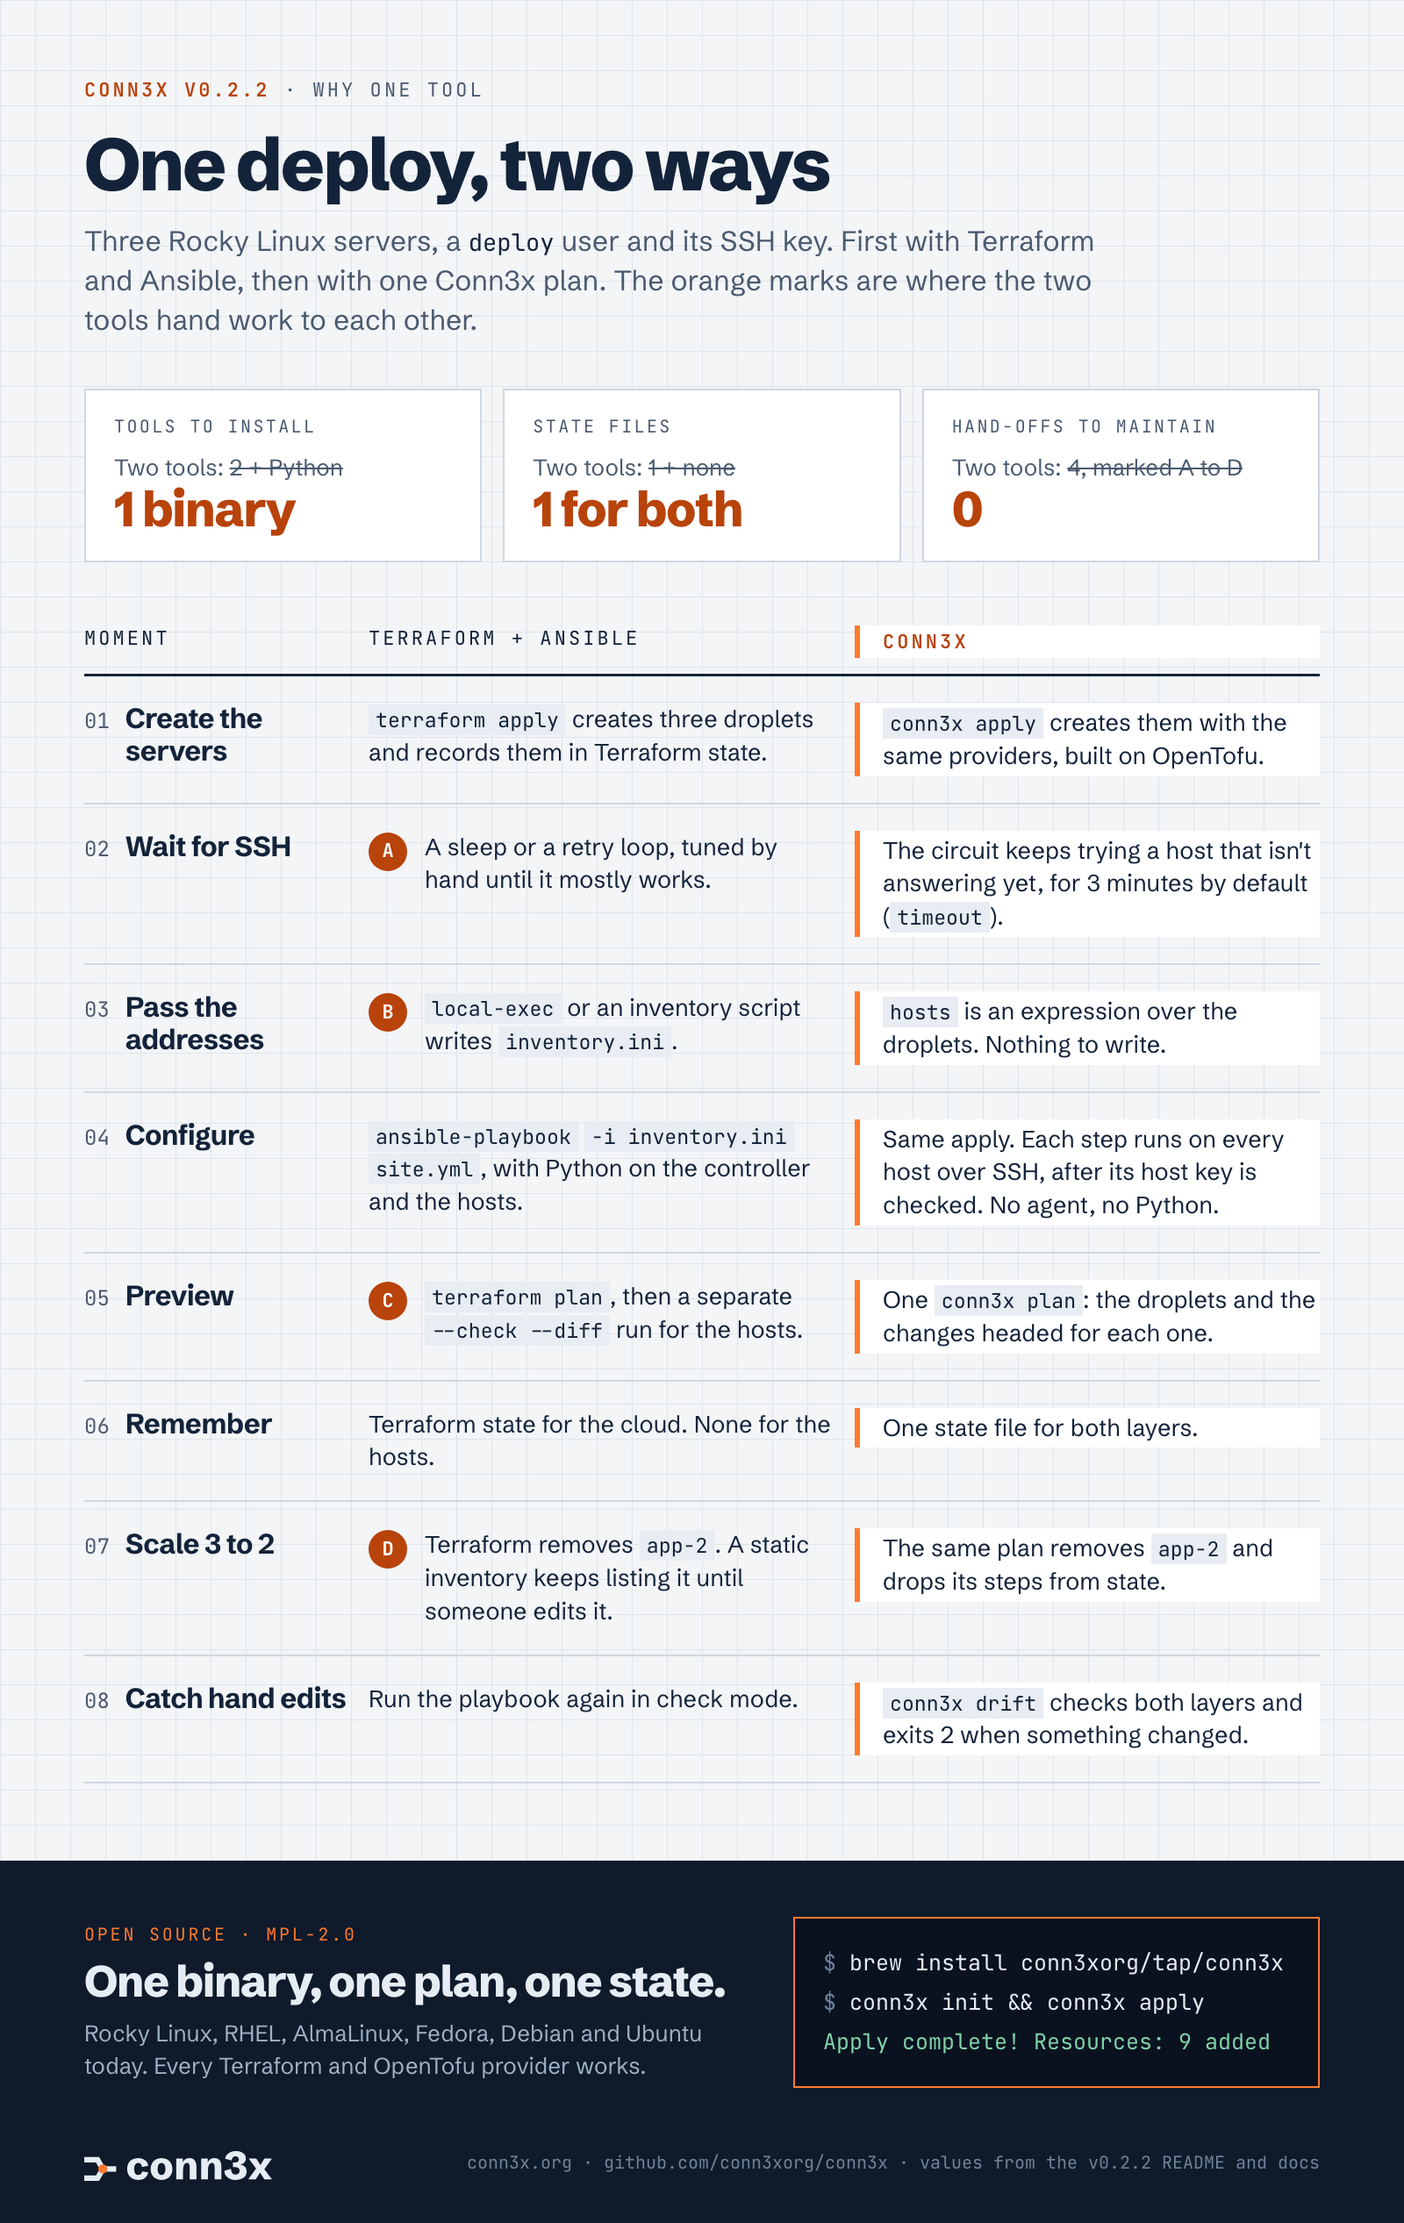
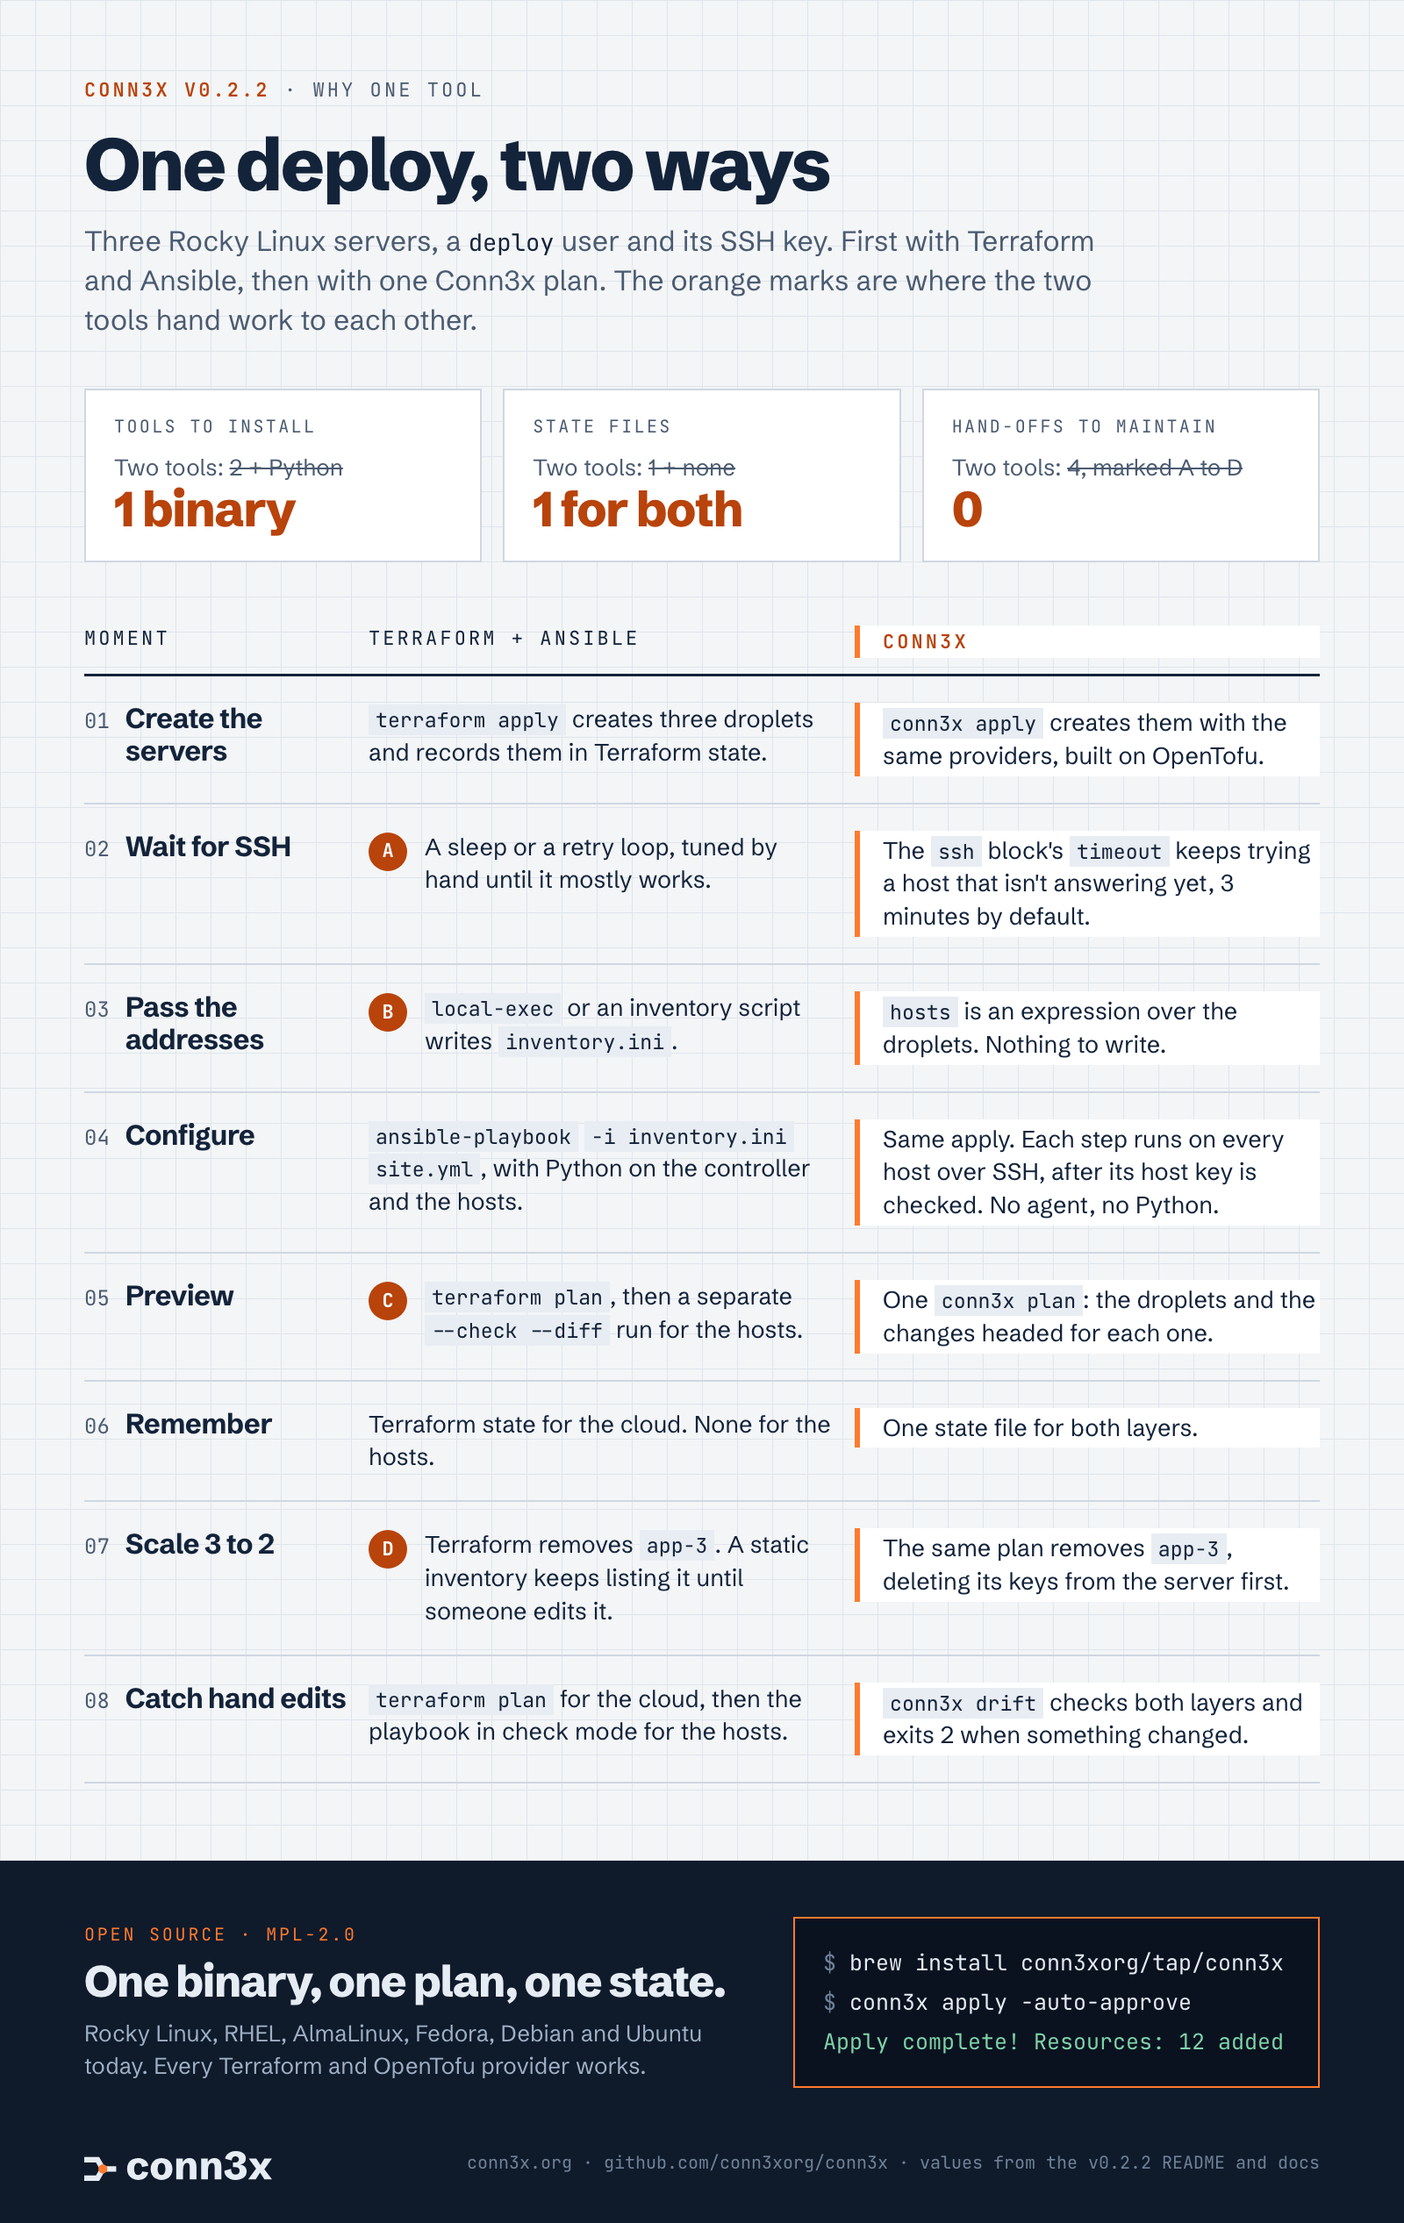
fix: make the why-Conn3x example run as shown and tighten its claims
The example now pins each server's host key, so its first apply checks
them, and it validates and plans with v0.2.2. The post no longer reuses
the v0.1 post's wording, says what scale-down does to keys and accounts,
and credits the ssh block with timeout. Clips keep native controls when
JavaScript is off.

diff --git a/scripts/post-graphics/why-conn3x/infographic.html b/scripts/post-graphics/why-conn3x/infographic.html
@@ -73,7 +73,7 @@
   <div class="row">
     <div class="moment"><span class="n">02</span><h3>Wait for SSH</h3></div>
     <div class="cell two hand" data-mark="A">A sleep or a retry loop, tuned by hand until it mostly works.</div>
-    <div class="cell one">The circuit keeps trying a host that isn't answering yet, for 3 minutes by default (<code>timeout</code>).</div>
+    <div class="cell one">The <code>ssh</code> block's <code>timeout</code> keeps trying a host that isn't answering yet, 3 minutes by default.</div>
   </div>
   <div class="row">
     <div class="moment"><span class="n">03</span><h3>Pass the addresses</h3></div>
@@ -97,12 +97,12 @@
   </div>
   <div class="row">
     <div class="moment"><span class="n">07</span><h3>Scale 3 to 2</h3></div>
-    <div class="cell two hand" data-mark="D">Terraform removes <code>app-2</code>. A static inventory keeps listing it until someone edits it.</div>
-    <div class="cell one">The same plan removes <code>app-2</code> and drops its steps from state.</div>
+    <div class="cell two hand" data-mark="D">Terraform removes <code>app-3</code>. A static inventory keeps listing it until someone edits it.</div>
+    <div class="cell one">The same plan removes <code>app-3</code>, deleting its keys from the server first.</div>
   </div>
   <div class="row">
     <div class="moment"><span class="n">08</span><h3>Catch hand edits</h3></div>
-    <div class="cell two">Run the playbook again in check mode.</div>
+    <div class="cell two"><code>terraform plan</code> for the cloud, then the playbook in check mode for the hosts.</div>
     <div class="cell one"><code>conn3x drift</code> checks both layers and exits 2 when something changed.</div>
   </div>
 </div>
@@ -115,8 +115,8 @@
   </div>
   <div class="term">
     <div><span class="p">$</span> brew install conn3xorg/tap/conn3x</div>
-    <div><span class="p">$</span> conn3x init &amp;&amp; conn3x apply</div>
-    <div class="ok">Apply complete! Resources: 9 added</div>
+    <div><span class="p">$</span> conn3x apply -auto-approve</div>
+    <div class="ok">Apply complete! Resources: 12 added</div>
   </div>
 </div>
 <div class="bottom">

diff --git a/apps/site/tests/blog.spec.ts b/apps/site/tests/blog.spec.ts
@@ -48,3 +48,18 @@ test("a clip can be paused", async ({ page }) => {
   expect(await video.evaluate((v: HTMLVideoElement) => v.paused)).toBe(true);
   await expect(toggle).toHaveText("Play");
 });
+
+test.describe("without JavaScript", () => {
+  test.use({ javaScriptEnabled: false });
+
+  test("a clip can still be played", async ({ page }) => {
+    await page.goto(POST);
+    await expect(page.locator("[data-clip] video").first()).toHaveAttribute("controls", "");
+  });
+});
+
+test("the clip's button sits outside its caption", async ({ page }) => {
+  await page.goto(POST);
+  await expect(page.locator("figcaption [data-clip-toggle]")).toHaveCount(0);
+  expect(await page.locator("[data-clip] video").first().evaluate((v: HTMLVideoElement) => v.controls)).toBe(false);
+});

diff --git a/scripts/post-graphics/why-conn3x/x-video/index.html b/scripts/post-graphics/why-conn3x/x-video/index.html
@@ -85,11 +85,13 @@
   count = 3
   name  = <span class="s">"app-${count.index}"</span>
   image = <span class="s">"rockylinux-10-x64"</span>
+  size  = <span class="s">"s-1vcpu-1gb"</span>
 }
 
 <span class="k">circuit</span> <span class="s">"app"</span> {
   hosts = { for d in digitalocean_droplet.app :
             d.name =&gt; d.ipv4_address }
+  <span class="c"># abridged: pin each host key, see the docs</span>
   ssh { user = <span class="s">"root"</span> }
 
   <span class="k">step</span> <span class="s">"deploy_user"</span> {

diff --git a/apps/site/src/content/blog/why-conn3x.md b/apps/site/src/content/blog/why-conn3x.md
@@ -1,7 +1,7 @@
 ---
 title: "Why Conn3x is one tool"
 description: "Creating a server and setting it up are one job. Conn3x does it with one binary, one plan and one state. Here's why that matters."
-date: 2026-10-26
+date: 2026-10-25
 author: James Conway
 image: /media/blog/why-conn3x/card.png
 imageAlt: "Left: Terraform and Ansible joined by glue scripts, an inventory file and two states. Right: one Conn3x plan and one state."
@@ -13,7 +13,7 @@ The trouble lives between them.
 
 Somewhere there's a script that copies addresses from one tool into a file the other one reads. There's a `sleep 60` that somebody added because the playbook kept knocking before SSH was listening. There are two records of what's out there, and on a bad day they disagree. None of that is anyone's fault. It's what happens when one job gets split across two tools.
 
-Our position is simple. We'll take one tool over two, every time, as long as it gets the job right every time. Conn3x is that tool.
+Our position is simple. We'll take one tool over two, every time, as long as it gets the job right every time. That's the tool we're building with Conn3x.
 
 ## Where the hand-off hurts
 
@@ -27,28 +27,52 @@ If you've wired these two together, you've met most of these.
 
 **The scale-down.** Shrink a pool from three servers to two and Terraform removes a machine. Whatever else knew about it, an inventory file or a group in a playbook, keeps pointing at an address that's gone until somebody notices.
 
-## One plan
+## Servers and setup in one file
 
 Conn3x is built on OpenTofu, so your providers, modules and state work as they always have. What it adds is the circuit: a playbook, written in HCL, that lives in the same configuration as the servers it sets up.
 
+Here's a pool of three Rocky Linux servers, each with a `deploy` account and its key. The pool is a set of names, and everything else follows from it.
+
 ```hcl
+locals {
+  servers = toset(["app-1", "app-2", "app-3"])
+}
+
+# Each server's SSH host key, made here and installed by cloud-init,
+# so Conn3x can check it on the very first connection.
+resource "tls_private_key" "host" {
+  for_each  = local.servers
+  algorithm = "ED25519"
+}
+
 resource "digitalocean_droplet" "app" {
-  count    = 3
-  name     = "app-${count.index}"
+  for_each = local.servers
+  name     = each.key
   image    = "rockylinux-10-x64"
   region   = "nyc3"
   size     = "s-1vcpu-1gb"
   ssh_keys = [var.ssh_key_id]
+
+  user_data = "#cloud-config\n${yamlencode({
+    ssh_deletekeys = true
+    ssh_keys = {
+      ed25519_private = tls_private_key.host[each.key].private_key_openssh
+      ed25519_public  = tls_private_key.host[each.key].public_key_openssh
+    }
+  })}"
 }
 
 circuit "app" {
-  hosts = { for d in digitalocean_droplet.app : d.name => d.ipv4_address }
+  hosts = {
+    for name, d in digitalocean_droplet.app : name => {
+      address  = d.ipv4_address
+      host_key = tls_private_key.host[name].public_key_openssh
+    }
+  }
 
   ssh {
     user             = "root"
     private_key_file = "~/.ssh/id_ed25519"
-    # Conn3x checks every host key. The provisioning guide shows how
-    # to pin the keys of servers that don't exist yet.
   }
 
   step "deploy_user" {
@@ -61,32 +85,33 @@ circuit "app" {
   step "deploy_key" {
     authorized_key {
       user = "deploy"
-      key  = file("~/.ssh/deploy.pub")
+      key  = file("${path.module}/deploy.pub")
     }
   }
 }
 ```
 
-`conn3x plan` shows three droplets about to be created and, under them, the account and the key headed for each one. One `apply` creates the machines, keeps trying each one until SSH answers, checks its host key, and sets it up. One state file holds all of it.
+Read it top to bottom and the hand-offs are gone. The addresses reach the circuit as an expression, so there's no inventory file. Each server's host key is made in the same configuration, so even the first SSH connection is checked, never trusted. And the `ssh` block's `timeout`, three minutes unless you change it, covers a server that's still booting.
 
-Look at what's missing. There's no inventory, because `hosts` is an expression. There's no wait loop, because the circuit's `timeout` covers a server that's still booting. And there's no second run to forget, because there's only one.
+`conn3x plan` lists all twelve changes together: the host keys, the droplets, and the account and key headed for each server. `conn3x apply` works through them in dependency order and records the lot in a single state file.
 
-Change `count` to 2 and the same plan removes `app-2` and drops its steps from state along with it. Nothing is left pointing at an address that's gone.
+Now take `app-3` out of the set. The next plan destroys that droplet, and first it deletes the deploy key from the server, because keys default to `on_remove = "delete"`. The account is forgotten rather than removed, which is the default for most steps. Either way, nothing is left pointing at a server that's gone.
 
 <figure class="clip" data-clip>
-  <video src="/media/blog/why-conn3x/apply.mp4" poster="/media/blog/why-conn3x/apply.webp" width="1280" height="720" muted loop playsinline preload="metadata" aria-label="A terminal running conn3x apply: one plan creates a host and configures it, then a second plan reports no changes."></video>
-  <figcaption>One apply, start to finish, recorded against a local test host. The second plan has nothing to do. <button type="button" data-clip-toggle hidden>Pause</button></figcaption>
+  <video src="/media/blog/why-conn3x/apply.mp4" poster="/media/blog/why-conn3x/apply.webp" width="1280" height="720" controls muted loop playsinline preload="metadata" aria-label="A terminal running conn3x apply against two local test hosts: it adds a deploy user and key to each, then a second plan reports no changes."></video>
+  <figcaption>The same two steps applied for real to two local test containers. The second plan has nothing to do.</figcaption>
+  <button type="button" data-clip-toggle hidden>Pause</button>
 </figure>
 
 ## What one tool changes
 
 It's easier, and the reasons are boring in the best way. There's one binary to install, one language to read and one command to run. A new teammate learns HCL and a short list of modules, and they can follow the whole path from API call to running service.
 
-It's also better, because one tool can see the whole picture. A plan is a diff against what's on the servers right now, line by line for files, next to the cloud changes that cause it. `conn3x drift` checks both layers and exits 2 when something changed by hand, so a scheduled job hears about a hand edit the morning after, not the next time someone applies. And there's nothing to install on the servers: no agent and no Python. Conn3x connects over SSH and runs plain shell commands, as root or through sudo.
+It's also better, because one tool can see the whole picture. A plan is a diff against what's on the servers right now, line by line for files, next to the cloud changes that cause it. `conn3x drift` checks both layers and exits 2 when something changed by hand, so a scheduled job hears about a hand edit the morning after, not the next time someone applies. And the servers need nothing extra. Conn3x reaches them over plain SSH, with no agent to install and no Python to keep in step.
 
 <figure>
   <img src="/media/blog/why-conn3x/infographic.png" width="1600" height="2534" loading="lazy" decoding="async" alt="Infographic: the same deploy done with Terraform plus Ansible, with four hand-off points marked, and done with one Conn3x plan." />
-  <figcaption>The same deploy, two ways. Every detail comes from the v0.2.2 README and docs.</figcaption>
+  <figcaption>The same deploy, two ways. Every Conn3x detail comes from the v0.2.2 README and docs.</figcaption>
 </figure>
 
 <details>
@@ -97,19 +122,19 @@ It's also better, because one tool can see the whole picture. A plan is a diff a
 - **State files:** Terraform state plus none for the hosts, or one for both.
 - **Hand-offs to maintain:** four, or none.
 - **Create the servers:** `terraform apply`, or `conn3x apply` with the same providers.
-- **Wait for SSH (hand-off A):** a sleep or retry loop tuned by hand, or the circuit's `timeout`, three minutes by default.
+- **Wait for SSH (hand-off A):** a sleep or retry loop tuned by hand, or the `ssh` block's `timeout`, three minutes by default.
 - **Pass the addresses (hand-off B):** `local-exec` or an inventory script writes `inventory.ini`, or `hosts` is an expression over the droplets.
 - **Configure:** `ansible-playbook -i inventory.ini site.yml` with Python on both sides, or the same apply over SSH with host keys checked and no agent.
 - **Preview (hand-off C):** `terraform plan` plus a separate `--check --diff` run, or one `conn3x plan`.
 - **Remember:** Terraform state for the cloud and none for the hosts, or one state file.
-- **Scale 3 to 2 (hand-off D):** a static inventory keeps listing the removed server, or the same plan drops its steps from state.
-- **Catch hand edits:** run the playbook again in check mode, or `conn3x drift`, which exits 2 when something changed.
+- **Scale 3 to 2 (hand-off D):** a static inventory keeps listing the removed server, or the same plan removes its steps, deleting keys from the server first.
+- **Catch hand edits:** `terraform plan` for the cloud plus the playbook in check mode for the hosts, or `conn3x drift`, which exits 2 when something changed.
 
 </details>
 
 ## If you live in Ansible
 
-You already think in tasks, handlers and hosts, and circuits keep those ideas: steps run in order, handlers fire on change, and `each.key` is the host. You don't have to start from a blank page, either. `conn3x convert ansible -i inventory.ini -out site.tf site.yml` translates what it can show means the same thing and leaves the rest in the output, commented, with the reason.
+You already think in tasks, handlers and hosts, and circuits keep those ideas: steps run in order, handlers fire on change, and `each.key` is the host. You don't have to start from a blank page, either. `conn3x convert ansible -i inventory.ini -out site.tf site.yml` converts the tasks it's sure about. Anything it can't vouch for stays in the output as a comment that says why, so you finish it knowingly.
 
 ## If you live in Terraform
 
@@ -121,7 +146,7 @@ Learn one thing. Conn3x configures Rocky Linux, RHEL, AlmaLinux, Fedora, Debian 
 
 ## Built in the open
 
-Conn3x starts from OpenTofu and tracks its releases, and we're grateful to the OpenTofu and Terraform communities whose work makes provider compatibility possible. It's MPL-2.0, contributions need a DCO sign-off, and there's no CLA. Every module runs end to end against Rocky Linux 10, Fedora 45, Ubuntu 24.04 and Debian 13 on every change, and releases are signed with cosign and ship with SBOMs and build provenance.
+Conn3x starts from OpenTofu and tracks its releases, and we're grateful to the OpenTofu and Terraform communities whose work makes provider compatibility possible. It's MPL-2.0, contributions need a DCO sign-off, and there's no CLA. Each change is tested end to end on four distributions before it merges, and every release is signed, with an SBOM and build provenance you can check yourself.
 
 It's early, and the [v0.1](/blog/conn3x-v0-1) and [v0.2.2](https://github.com/conn3xorg/conn3x/releases/tag/v0.2.2) notes say exactly what's there.
 
